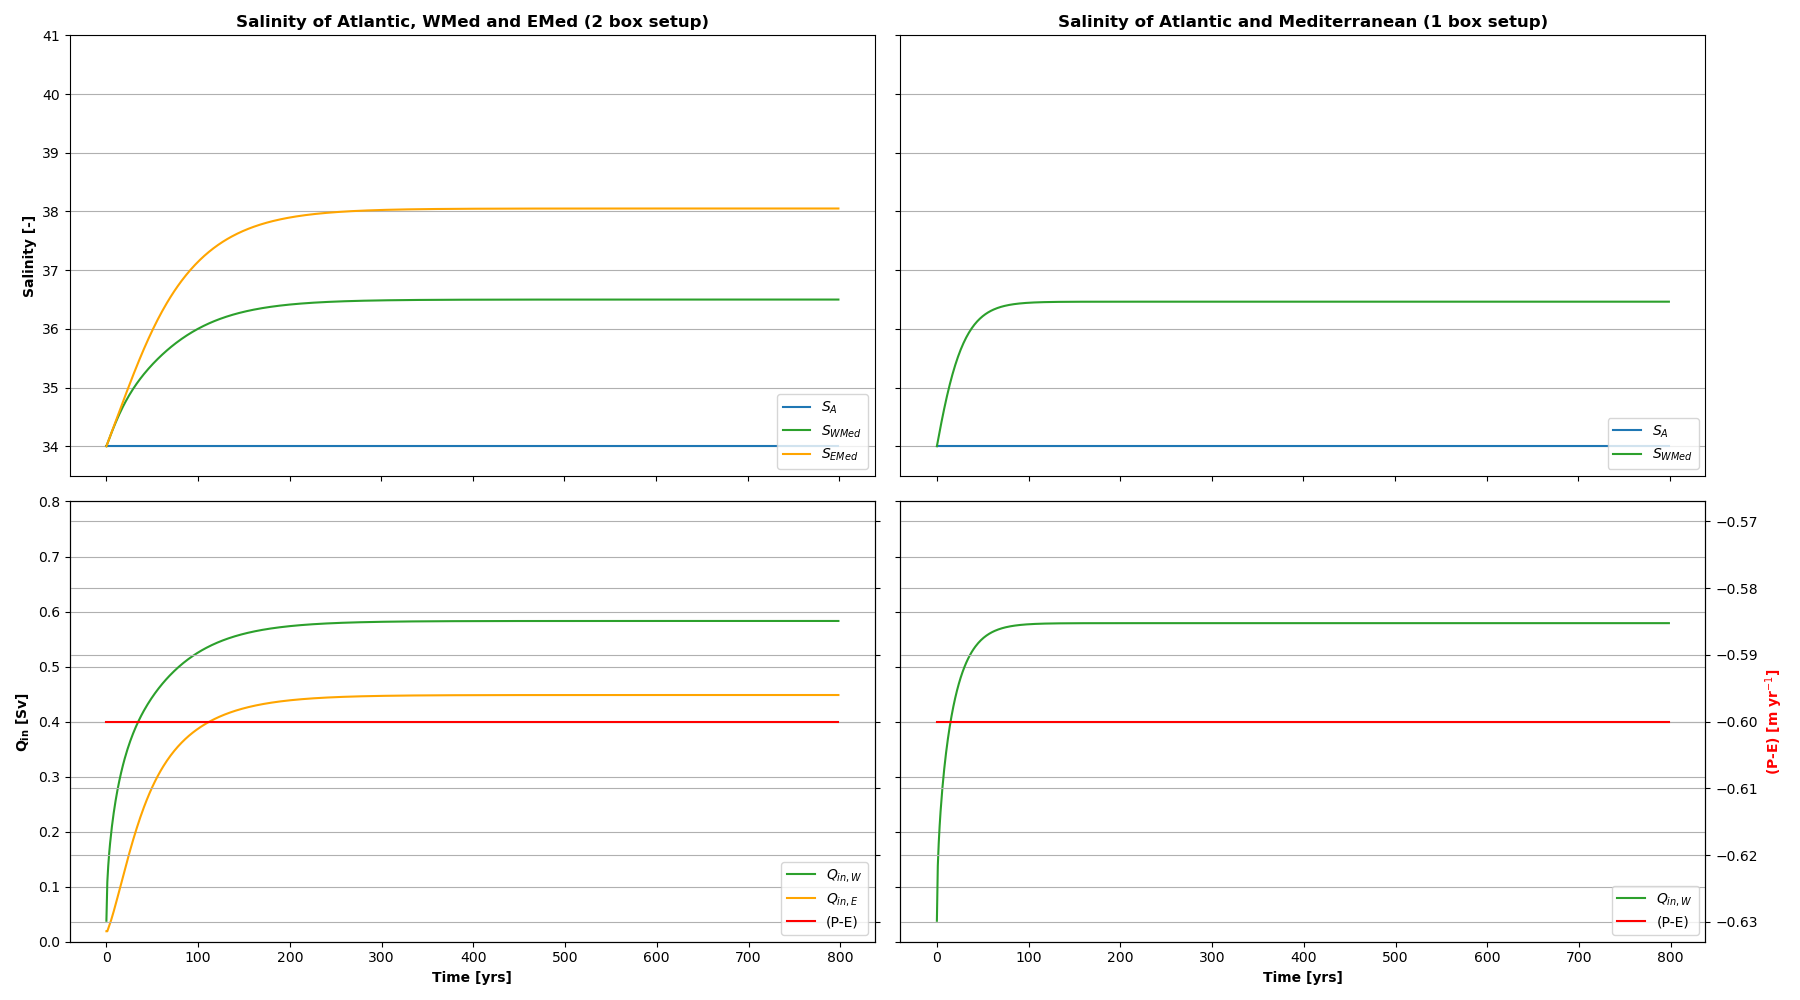
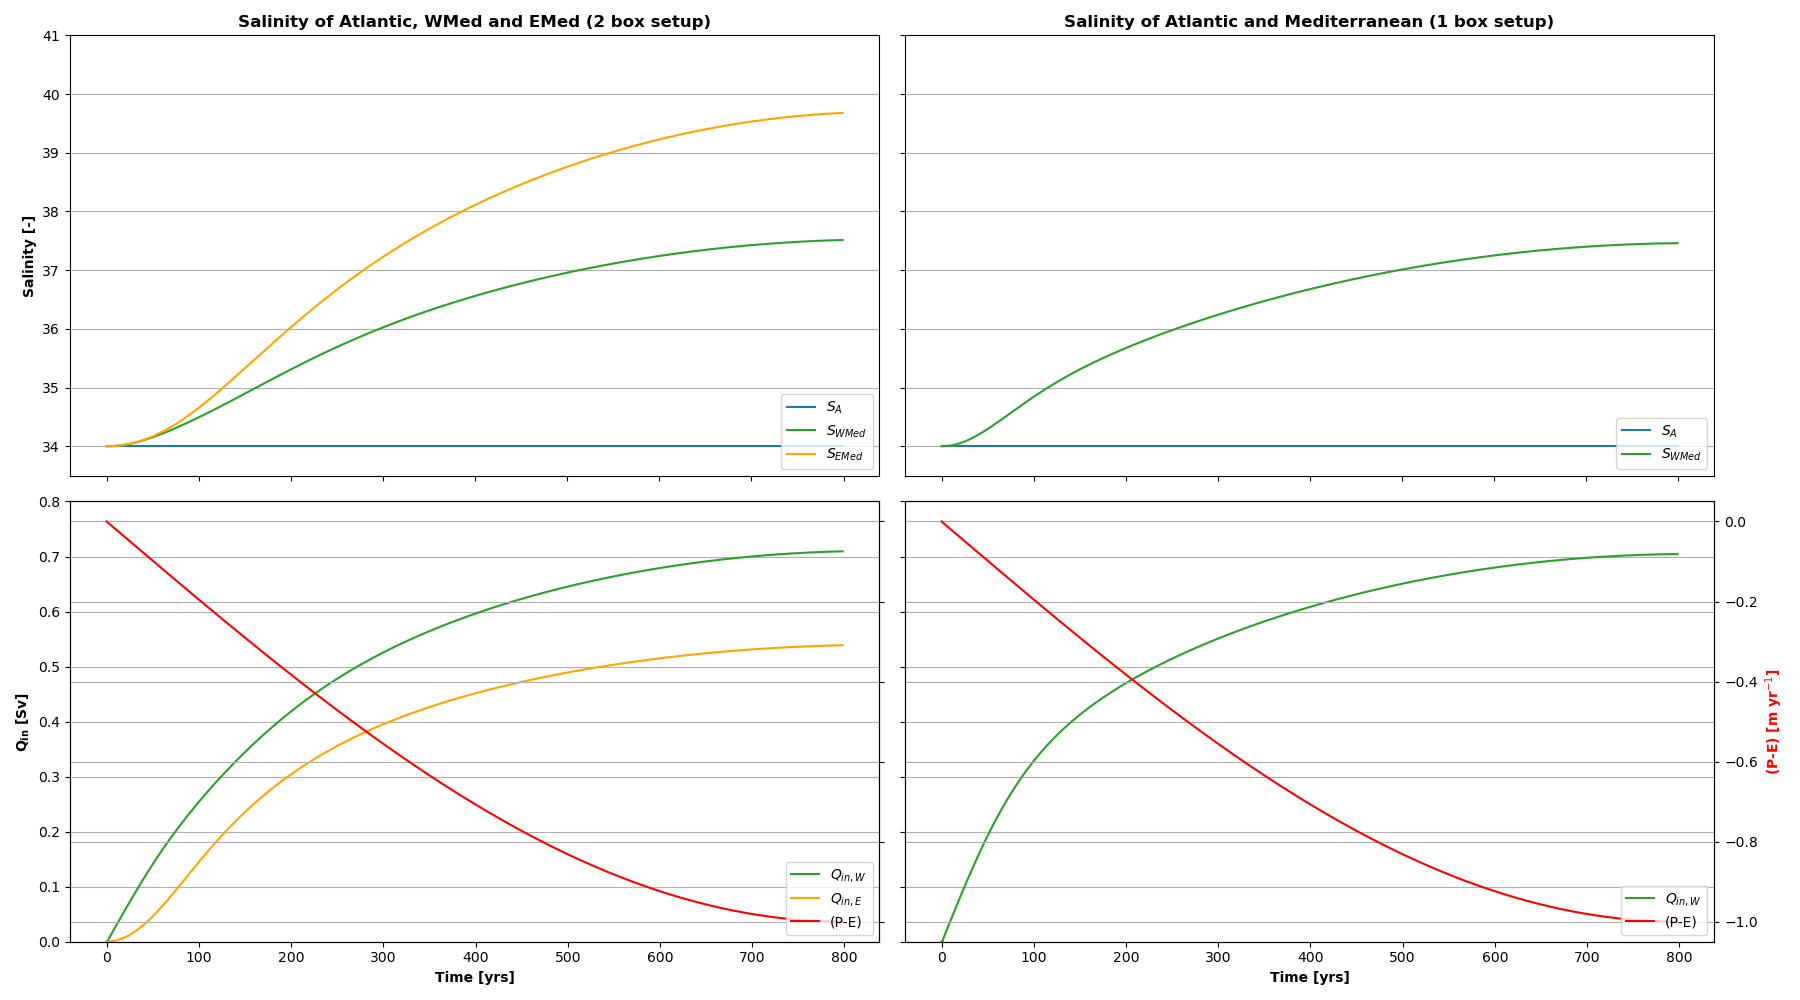
some final changes

diff --git a/src/main.py b/src/main.py
@@ -68,14 +68,16 @@ def Main(config):
             
             t[i+1] = t[i] + dt             
                     
-            Boxes['Atlantic'].Salinity[i] = Boxes['Atlantic'].Salinity[i] + VaryingAtlantic(i) # keep Atlantic constant or not
-            Boxes['Atlantic'].Temp[i] = Boxes['Atlantic'].Temp[i] + VaryingAtlantic(i)         # keep Atlantic constant or not 
                     
             for Box in Boxes: # Loop over all boxes
                 Boxes[Box].Rho[i] = CalculateDensity(Boxes[Box].Salinity[i], Boxes[Box].Temp[i]) # Calculate density
                 FreshWaterBudget[i,Boxes[Box].Number] = Evapor(i,Boxes[Box].Name)*Boxes[Box].Area 
-                AirTemperature[i, Boxes[Box].Number] = AirTemp(i, Boxes[Box].Name)     
-             
+                AirTemperature[i, Boxes[Box].Number] = AirTemp(i, Boxes[Box].Name)  
+                
+            Boxes['Atlantic'].Salinity[i+1] = Boxes['Atlantic'].Salinity[i] + VaryingAtlantic(i) # keep Atlantic constant or not
+            Boxes['Atlantic'].Temp[i+1] = Boxes['Atlantic'].Temp[i] + VaryingAtlantic(i) # keep Atlantic constant or not 
+            Boxes['Atlantic'].Rho[i+1] = CalculateDensity(Boxes['Atlantic'].Salinity[i], Boxes['Atlantic'].Temp[i])
+                 
             #%% Density driven horizontal fluxes and convection     
             
             for Box1 in Boxes:
@@ -134,15 +136,20 @@ def Main(config):
         
         for i in range(0,len(t)-1): # Iterate over predefined time 
             
-            t[i+1] = t[i] + dt             
+            t[i+1] = t[i] + dt         
+            
+            
                     
-            Boxes['Atlantic'].Salinity[i] = Boxes['Atlantic'].Salinity[i] + VaryingAtlantic(i) # keep Atlantic constant or not
-            Boxes['Atlantic'].Temp[i] = Boxes['Atlantic'].Temp[i] + VaryingAtlantic(i) # keep Atlantic constant or not 
-                    
-            for Box in Boxes:
+                   
+            for Box in Boxes: # Calculate current state
                 Boxes[Box].Rho[i] = CalculateDensity(Boxes[Box].Salinity[i], Boxes[Box].Temp[i])
                 FreshWaterBudget[i,Boxes[Box].Number] = Evapor(i,Boxes[Box].Name)*Boxes[Box].Area 
-                AirTemperature[i, Boxes[Box].Number] = AirTemp(i, Boxes[Box].Name)     
+                AirTemperature[i, Boxes[Box].Number] = AirTemp(i, Boxes[Box].Name)    
+                
+            Boxes['Atlantic'].Salinity[i+1] = Boxes['Atlantic'].Salinity[i] + VaryingAtlantic(i) # keep Atlantic constant or not
+            Boxes['Atlantic'].Temp[i+1] = Boxes['Atlantic'].Temp[i] + VaryingAtlantic(i) # keep Atlantic constant or not 
+            Boxes['Atlantic'].Rho[i+1] = CalculateDensity(Boxes['Atlantic'].Salinity[i], Boxes['Atlantic'].Temp[i])
+              
              
             #%% Density driven horizontal fluxes and convection     
             

diff --git a/src/classes.py b/src/classes.py
@@ -66,10 +66,12 @@ class AtlanticSurface:
         self.Name       = 'Atlantic'
         self.Level      = 0             # 0 = Surface, 1 = Intermediate, 2 = Deep 
         self.Number     = 0
-        self.Salinity   = np.ones((modelrun,1)) 
-        self.Temp       = np.ones((modelrun,1))  
-        self.Rho             = CalculateDensity(S0,T0)
-        self.Rho        = np.ones((modelrun,1)) 
+        self.Salinity   = np.zeros((modelrun,1)) 
+        self.Temp       = np.zeros((modelrun,1))  
+        self.Rho        = np.zeros((modelrun,1)) 
+        self.Salinity[0] = S0
+        self.Temp[0]     = T0
+        self.Rho[0]     = CalculateDensity(S0,T0) 
         self.HorConnection = ['WMed']
         self.VerConnection = [] 
         self.Area      = 0 # Set area to 0 because fresh water budget over Atlantic is not important

diff --git a/src/Plots.py b/src/Plots.py
@@ -58,8 +58,6 @@ for i in range(0,2):
         ax3.grid(axis='y',)
         
 
-        
-        
     if i ==0:  
         t, Boxes, Fluxes, FreshWaterBudget, AirTemperature = Main(i) 
         ax.set_title('Salinity of Atlantic, WMed and EMed (2 box setup)', weight='bold')
@@ -99,5 +97,5 @@ for i in range(0,2):
 
         
     plt.tight_layout(h_pad=1.12,w_pad=1.12)
-    plt.close() 
-#plt.savefig('./../results/1 box versus 2 boxes.png')
+
+plt.savefig('./../results/1 box versus 2 boxes.png')

diff --git a/src/forcings.py b/src/forcings.py
@@ -25,10 +25,14 @@ def Evapor(i,Box):
     """
 
     if Box == 'WMed':
-        evap = 0.6
+        b = 2*np.pi/(modelrun*4) 
+        evap = 1.0 * np.sin(b*i)
+
         
     elif Box == 'EMed':
-        evap = 0.6
+        b = 2*np.pi/(modelrun*4) 
+        evap = 1.0 * np.sin(b*i)
+
 
     else:
         evap = 0
